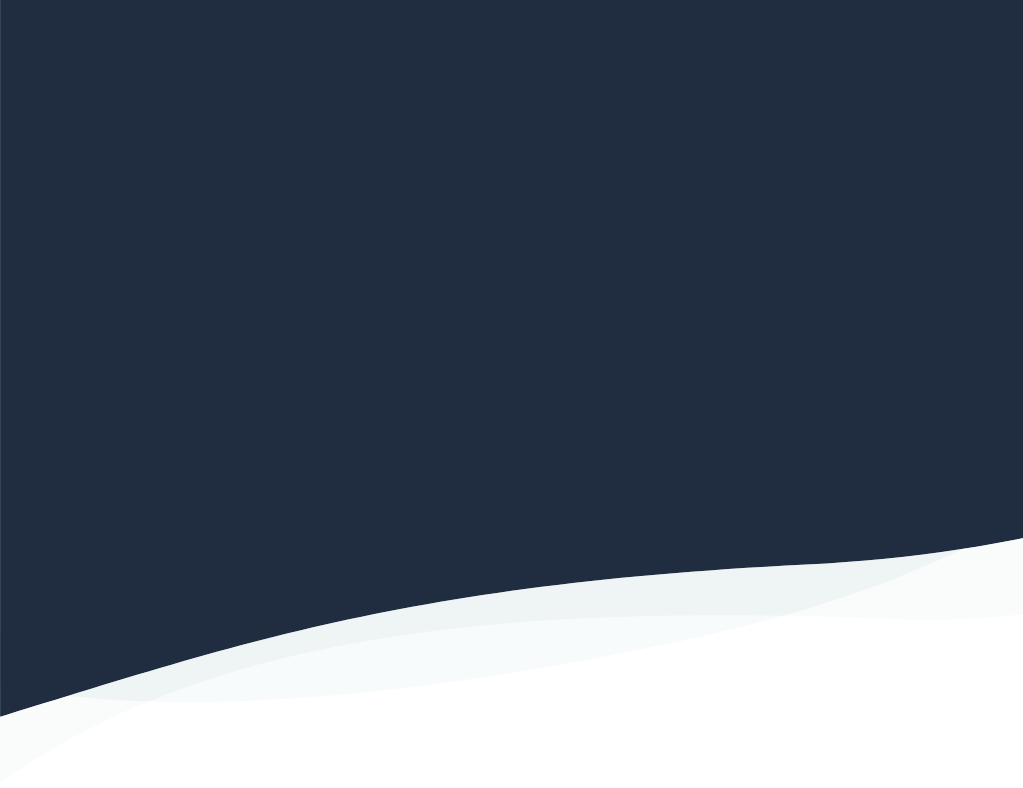
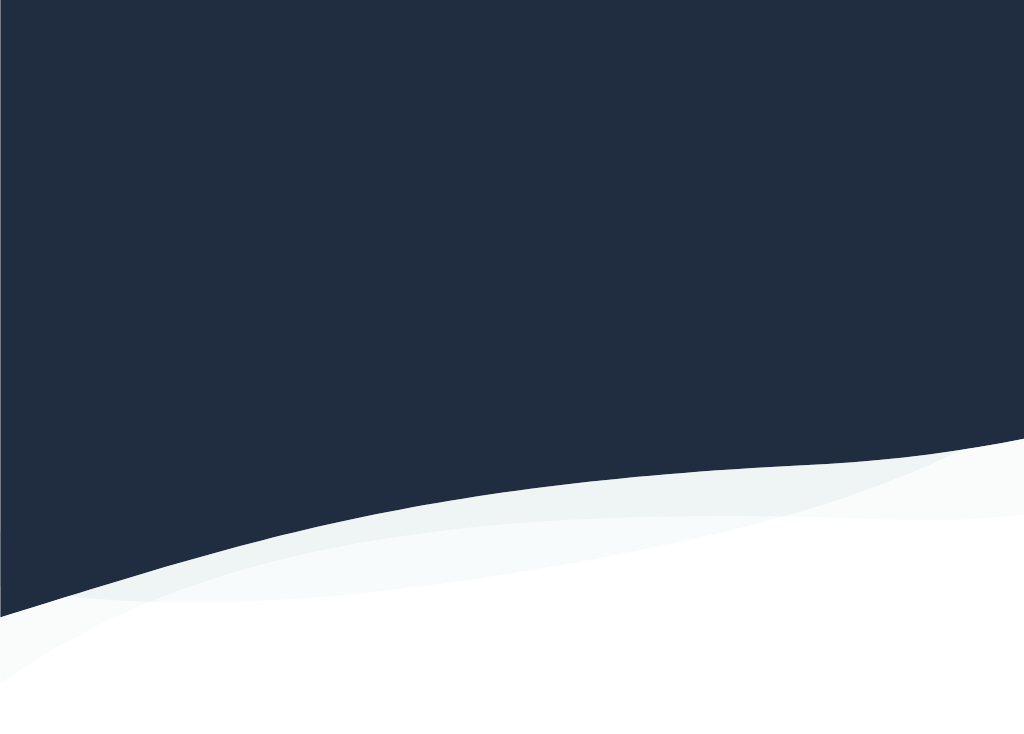
Update code perfect pixel

Changed region(s): [[0.0, 0.5995, 1.0, 0.9292]]

diff --git a/wp-content/themes/sage-theme/resources/assets/styles/modules/_mod-ecosystem.scss b/wp-content/themes/sage-theme/resources/assets/styles/modules/_mod-ecosystem.scss
@@ -21,18 +21,18 @@
         }
 
         .slider {
-            @apply w-full down_xl:min-h-200 xl:w-[51%] 2xl:w-1/2 pt-41 pr-10 xl:p-0;
+            @apply w-full down_xl:min-h-200 xl:w-[51%] 2xl:w-1/2 xl:-ml-3 2xl:ml-0 pt-41 pr-10 xl:p-0 2xl:pt-2 2xl:pl-3 2k:pl-1;
 
             .arrows {
                 @apply absolute w-25 h-28 transition-all duration-400 ease-in-out bottom-[-23px] xl:bottom-[-32px] 2xl:bottom-[-48px];
             }
 
             .slick-prev {
-                @apply right-[53%] xl:right-29 2k:right-32;
+                @apply right-[53%] xl:right-26 2xl:right-29 2k:right-32;
             }
 
             .slick-next {
-                @apply left-[52%] xl:left-[93%] 2xl:left-[95%] 2k:left-[94%];
+                @apply left-[52%] xl:left-[94%] 2xl:left-[95%] 2k:left-[94%];
             }
 
             .icomoon {

diff --git a/wp-content/themes/sage-theme/resources/assets/styles/modules/_mod-setting.scss b/wp-content/themes/sage-theme/resources/assets/styles/modules/_mod-setting.scss
@@ -6,11 +6,11 @@
             @apply flex flex-col w-full xl:w-32p pl-7 xl:pl-0 2xl:pt-7;
 
             h2 {
-                @apply text-5xl xl:text-4xl 2xl:text-5xl xl:leading-none tracking-normal xl:mb-10 2xl:mb-4;
+                @apply text-5xl xl:text-4xl 2xl:text-5xl xl:leading-none tracking-normal xl:mb-9 2xl:mb-4;
             }
 
             img.setting-1 {
-                @apply w-74 xl:w-70 h-78 xl:h-74 mb-14 xl:mb-10 2xl:mb-14 mt-7 xl:mt-8;
+                @apply w-74 xl:w-70 h-78 xl:h-74 mb-14 xl:mb-10 2xl:mb-15 mt-7 xl:mt-8;
             }
 
             p {

diff --git a/wp-content/themes/sage-theme/resources/assets/styles/modules/_mod-home-banner.scss b/wp-content/themes/sage-theme/resources/assets/styles/modules/_mod-home-banner.scss
@@ -1,8 +1,8 @@
 .mod-banner {
-    @apply border-t-1 border-gray-500 min-h-350 xl:min-h-375;
+    @apply border-t-1 border-gray-500 2k:min-h-400;
 
     img.bg-banner {
-        @apply absolute min-h-350 2xl:max-h-325 2k:max-h-380 2xl:w-full object-cover;
+        @apply absolute w-full;
     }
 
     .content {
@@ -25,7 +25,7 @@
         }
     }
 
-    picture {
+    picture.avatar {
         @apply w-full xl:w-[52.5%] 2xl:w-52p 2k:w-51p pt-30 xl:pt-40 2xl:pt-29 2k:pt-38 flex justify-end;
 
         img {

diff --git a/wp-content/themes/sage-theme/resources/assets/styles/config/unility/minHeight.js b/wp-content/themes/sage-theme/resources/assets/styles/config/unility/minHeight.js
@@ -11,6 +11,7 @@ const minHeight = {
   350: '700px',
   375: '750px',
   400: '800px',
+  450: '900px',
   full: '100%',
   screen: '100vh',
   banner: '456px'

diff --git a/wp-content/themes/sage-theme/resources/views/template-parts/page/module-home_banner.blade.php b/wp-content/themes/sage-theme/resources/views/template-parts/page/module-home_banner.blade.php
@@ -1,5 +1,10 @@
 <section class="mod-banner">
-    <img src="<?php echo TEMPLATE_ASSETS_URL; ?>/images/md-banner/bg-banner-1920.png" alt="Banner" class="bg-banner">
+    <picture>
+        <source srcset="<?php echo TEMPLATE_ASSETS_URL; ?>/images/md-banner/bg-1920.png" media="(min-width: 1920px)">
+        <source srcset="<?php echo TEMPLATE_ASSETS_URL; ?>/images/md-banner/bg-1440.png" media="(min-width: 1440px)">
+        <source srcset="<?php echo TEMPLATE_ASSETS_URL; ?>/images/md-banner/bg-1024.png" media="(min-width: 1024px)">
+        <img src="<?php echo TEMPLATE_ASSETS_URL; ?>/images/md-banner/bg-768.png" alt="Banner" class="bg-banner">
+    </picture>
     <div class="content">
         <div class="text-content">
             <h1>
@@ -14,7 +19,7 @@
                 </div>
             </a>             
         </div>
-        <picture>
+        <picture class="avatar">
             <source srcset="<?php echo TEMPLATE_ASSETS_URL; ?>/images/md-banner/banner-1920.png" media="(min-width: 1920px)">
             <source srcset="<?php echo TEMPLATE_ASSETS_URL; ?>/images/md-banner/banner-1440.png" media="(min-width: 1440px)">
             <source srcset="<?php echo TEMPLATE_ASSETS_URL; ?>/images/md-banner/banner-1024.png" media="(min-width: 1024px)">

diff --git a/wp-content/uploads/cache/1f1a984dcdff54fe8926660a7bdde407669ec3ba.php b/wp-content/uploads/cache/1f1a984dcdff54fe8926660a7bdde407669ec3ba.php
@@ -1,5 +1,10 @@
 <section class="mod-banner">
-    <img src="<?php echo TEMPLATE_ASSETS_URL; ?>/images/md-banner/bg-banner-1920.png" alt="Banner" class="bg-banner">
+    <picture>
+        <source srcset="<?php echo TEMPLATE_ASSETS_URL; ?>/images/md-banner/bg-1920.png" media="(min-width: 1920px)">
+        <source srcset="<?php echo TEMPLATE_ASSETS_URL; ?>/images/md-banner/bg-1440.png" media="(min-width: 1440px)">
+        <source srcset="<?php echo TEMPLATE_ASSETS_URL; ?>/images/md-banner/bg-1024.png" media="(min-width: 1024px)">
+        <img src="<?php echo TEMPLATE_ASSETS_URL; ?>/images/md-banner/bg-768.png" alt="Banner" class="bg-banner">
+    </picture>
     <div class="content">
         <div class="text-content">
             <h1>
@@ -14,7 +19,7 @@
                 </div>
             </a>             
         </div>
-        <picture>
+        <picture class="avatar">
             <source srcset="<?php echo TEMPLATE_ASSETS_URL; ?>/images/md-banner/banner-1920.png" media="(min-width: 1920px)">
             <source srcset="<?php echo TEMPLATE_ASSETS_URL; ?>/images/md-banner/banner-1440.png" media="(min-width: 1440px)">
             <source srcset="<?php echo TEMPLATE_ASSETS_URL; ?>/images/md-banner/banner-1024.png" media="(min-width: 1024px)">
